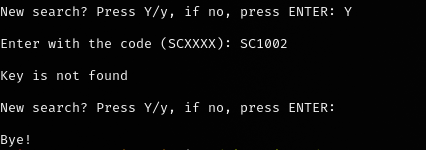
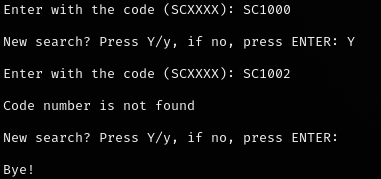
Update all

diff --git a/checkSC_gist.py b/checkSC_gist.py
@@ -1,0 +1,62 @@
+#!/usr/bin/env python3
+
+# This program does a search by SC code number 
+# on ShellCheck Wiki Page on GitHub.
+#
+# by Diego Moicano (@hihackthis)
+# July 04th, 2024
+# version 1.0
+#
+# Run:
+# python checkSC.py
+#
+from urllib.request import urlopen
+from bs4 import BeautifulSoup
+import webbrowser
+import re
+
+# Binary search function ShellCheck code number
+def BinaryShell(lst, x):
+    ini = 0
+    end = len(lst) - 1
+    flag = False
+    while (ini <= end and not flag):
+        mid = (ini + end) // 2
+        if lst[mid] == x:
+            flag = True
+        elif x > lst[mid]:
+            ini = mid +1
+        else:
+            end = mid-1
+    if flag == True:
+        urlSC = 'https://github.com/koalaman/shellcheck/wiki/'
+        fullUrl = urlSC + x
+        webbrowser.open_new(fullUrl)
+    else:
+        print("\nCode number is not found")
+        
+# Fetch ShellCheck Wiki
+url = urlopen('https://gist.github.com/nicerobot/53cee11ee0abbdc997661e65b348f375')
+bs = BeautifulSoup(url.read(), 'html.parser')
+
+patt = re.compile(r'SC[0-9]{4}')
+link_href = [ x.get("href") for x in bs.select('a[href*="SC"]') ]
+all_codesc = patt.findall(str(link_href)) 
+# print(codesc)
+
+# User input ShellCheck code number
+x = input('\nEnter with the code (SCXXXX): ')
+BinaryShell(all_codesc, x)
+
+# Search with infinite loop
+while True:
+    ch = input("\nNew search? Press Y/y, if no, press ENTER: ")
+    if ch == 'Y' or ch == 'y':
+        x = input('\nEnter with the code (SCXXXX): ')
+        BinaryShell(all_codesc, x)
+    elif ch == "":
+        print("\nBye!")
+        break
+    else:
+        print("\nChoose the correct option")
+

diff --git a/checkSC_net.py b/checkSC_net.py
@@ -4,7 +4,7 @@
 # on ShellCheck Wiki Page.
 #
 # by Diego Moicano (@hihackthis)
-# July 02st, 2024
+# July 02nd, 2024
 # version 1.0
 #
 # Run:
@@ -13,10 +13,6 @@
 from urllib.request import urlopen
 from bs4 import BeautifulSoup
 import webbrowser
-
-# Fetch ShellCheck Wiki
-url = urlopen('https://www.shellcheck.net/wiki/')
-bs = BeautifulSoup(url.read(), 'html.parser')
 
 # Binary search function ShellCheck code number
 def BinaryShell(lst, x):
@@ -37,6 +33,10 @@ def BinaryShell(lst, x):
         webbrowser.open_new(fullUrl)
     else:
         print("\nCode number is not found")
+        
+# Fetch ShellCheck Wiki
+url = urlopen('https://www.shellcheck.net/wiki/')
+bs = BeautifulSoup(url.read(), 'html.parser')
 
 # Puts all ShellCheck (SC) code numbers in a list
 link_href = [ x.get("href") for x in bs.select('a[href^="SC"]') ]

diff --git a/Olds/checkSC_01.py b/Olds/checkSC_01.py
@@ -72,6 +72,13 @@ BinarySearch(link_href, x)
 # https://didatica.tech/tudo-sobre-listas-em-python/
 # https://docs.python.org/pt-br/3/tutorial/inputoutput.html
 # https://docs.python.org/3/howto/urllib2.html
+# https://nanonets.com/blog/web-scraping-with-python-tutorial/
+# https://serpapi.com/blog/web-scraping-with-css-selectors-using-python/
+# https://www.w3schools.com/cssref/css_selectors.php
+# https://nowitsanurag.medium.com/regular-expression-in-python-f42483e80daa
+# https://docs.python.org/pt-br/3.7/library/re.html
+# https://www.statology.org/typeerror-expected-string-or-bytes-like-object/
+# https://www.scaler.com/topics/re-compile-in-python/
 
 # https://github.com/m14r41/PentestingEverything
 

diff --git a/README.md b/README.md
@@ -1,5 +1,5 @@
 # checkSC
-Fast search for the code number on the [ShellCheck Wiki](https://www.shellcheck.net/wiki) page. :flashlight:
+Fast search for the code number on the **ShellCheck Wiki** pages. :flashlight:
 
 ## Usage
 ```
@@ -8,6 +8,13 @@ cd checkSC
 pip install -r requeriments.txt
 python checkSC.py
 ```
+Note, there are two checkSC.py:
+
+> checkSC_net.py, this will perform a search on the [ShellCheck Wiki](https://www.shellcheck.net/wiki) website.
+
+
+> checkSC_gist.py, this will perform a search on the [GitHub Gist Wiki](https://gist.github.com/nicerobot/53cee11ee0abbdc997661e65b348f375) website.
+
 After that, you can be your search for the code number. Remember, you must add 'SC' first and numbers after. For example: SC1000
 
 Let's see how easy is!
